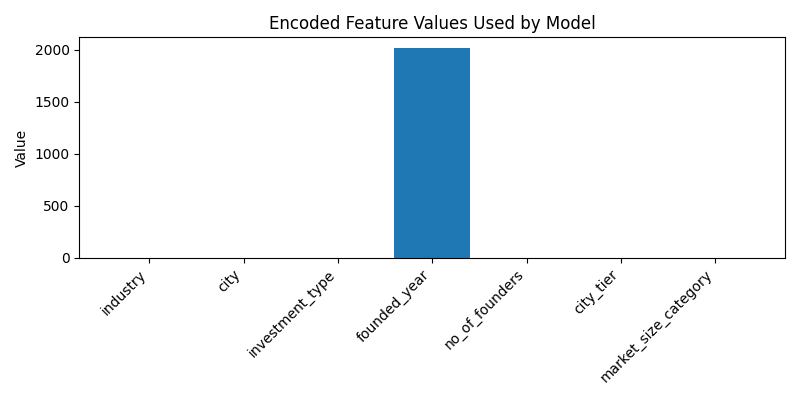
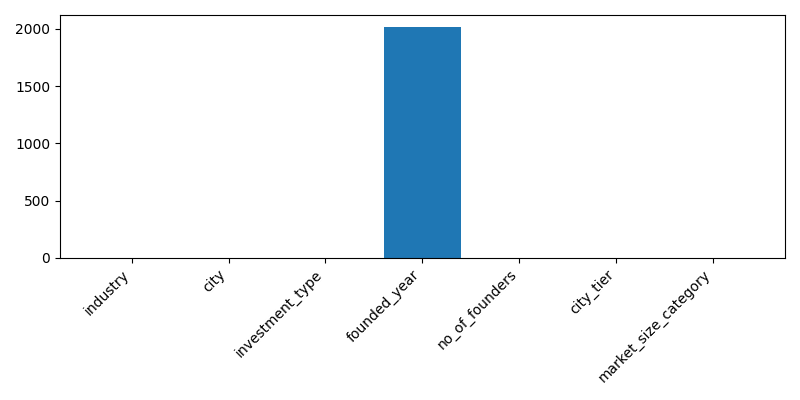
Startup Funding Prediction App

diff --git a/src/app.py b/src/app.py
@@ -10,26 +10,21 @@ import matplotlib.pyplot as plt
 import os
 import time
 import random
+import gdown   # ✅ ADDED (ONLY NEW IMPORT)
 
 # =====================================================
 # PAGE CONFIG
 # =====================================================
-st.set_page_config(
-    page_title="Startup Funding Prediction",
-    layout="centered"
-)
+st.set_page_config(page_title="Startup Funding Prediction", layout="centered")
 
 # =====================================================
 # CUSTOM CSS (DESIGN + ANIMATIONS)
 # =====================================================
 st.markdown("""
 <style>
-
-/* ---------- BASE ---------- */
 .main { background-color: #f7f9fc; }
 h1 { font-weight: 700; }
 
-/* ---------- SECTIONS ---------- */
 .section-header {
     font-size: 22px;
     font-weight: 600;
@@ -38,7 +33,6 @@ h1 { font-weight: 700; }
     animation: bounce 0.6s ease-out;
 }
 
-/* ---------- ANIMATIONS ---------- */
 @keyframes bounce {
     0% { transform: scale(0.9); opacity: 0; }
     60% { transform: scale(1.05); }
@@ -62,7 +56,6 @@ h1 { font-weight: 700; }
     100% { background-position: 0% 50%; }
 }
 
-/* ---------- CARDS ---------- */
 .card {
     background-color: white;
     padding: 20px;
@@ -70,11 +63,8 @@ h1 { font-weight: 700; }
     box-shadow: 0 4px 14px rgba(0,0,0,0.08);
     margin-bottom: 15px;
     animation: bounce 0.6s ease-out;
-    transition: transform 0.25s ease;
 }
-.card:hover { transform: translateY(-6px); }
 
-/* ---------- METRIC ---------- */
 .prediction {
     font-size: 20px;
     font-weight: 700;
@@ -82,41 +72,17 @@ h1 { font-weight: 700; }
     animation: pulse 1.5s infinite;
 }
 
-/* ---------- BUTTONS ---------- */
 .stButton > button {
-    background: linear-gradient(
-        135deg,
-        #6366f1,
-        #22c55e,
-        #f59e0b,
-        #ec4899
-    );
+    background: linear-gradient(135deg,#6366f1,#22c55e,#f59e0b,#ec4899);
     background-size: 300% 300%;
     color: white;
     font-size: 16px;
     font-weight: 700;
     border-radius: 14px;
     height: 50px;
-    border: none;
     animation: gradientMove 4s ease infinite, pulse 2s infinite;
-    box-shadow: 0 8px 20px rgba(99,102,241,0.35);
 }
 
-.stButton > button:hover {
-    transform: scale(1.08);
-    box-shadow: 0 10px 26px rgba(236,72,153,0.45);
-}
-
-.stDownloadButton > button {
-    background: linear-gradient(135deg, #0ea5e9, #22c55e);
-    color: white;
-    font-weight: 700;
-    border-radius: 14px;
-    height: 50px;
-    box-shadow: 0 8px 22px rgba(14,165,233,0.4);
-}
-
-/* ---------- FLYING EMOJIS ---------- */
 .fly {
     position: fixed;
     font-size: 28px;
@@ -124,22 +90,36 @@ h1 { font-weight: 700; }
     z-index: 9999;
 }
 
-/* ---------- FOOTER ---------- */
 .footer {
     text-align: center;
     color: #6b7280;
     margin-top: 40px;
-    animation: bounce 0.8s ease-out;
 }
-
 </style>
 """, unsafe_allow_html=True)
 
 # =====================================================
-# LOAD MODELS & ENCODERS
+# LOAD MODELS FROM GOOGLE DRIVE (ONLY FIX)
 # =====================================================
 @st.cache_resource
 def load_resources():
+
+    FILES = {
+        "models/funding_level_model.pkl": "1tmnPz_Q9Acw9Dq8AMd4dpxHLjHMcTNnP",
+        "models/funding_amount_model.pkl": "1s5bXqUBU30529e8Ejx0r0vUrfkHYWpEP",
+        "models/label_encoders.pkl": "1s5bXqUBU30529e8Ejx0r0vUrfkHYWpEP"
+    }
+
+    os.makedirs("models", exist_ok=True)
+
+    for path, file_id in FILES.items():
+        if not os.path.exists(path):
+            gdown.download(
+                f"https://drive.google.com/uc?id={file_id}",
+                path,
+                quiet=False
+            )
+
     return (
         joblib.load("models/funding_level_model.pkl"),
         joblib.load("models/funding_amount_model.pkl"),
@@ -152,24 +132,18 @@ funding_level_model, funding_amount_model, label_encoders = load_resources()
 # HELPERS
 # =====================================================
 def sanitize_text(text):
-    if not isinstance(text, str):
-        text = str(text)
-    for u, r in {"₹": "INR", "–": "-", "—": "-"}.items():
-        text = text.replace(u, r)
-    return text
+    return str(text).replace("₹", "INR").replace("–", "-").replace("—", "-")
 
 # =====================================================
 # PDF CHARTS
 # =====================================================
-def generate_charts(funding_level_text, encoded_features):
+def generate_charts(level_text, encoded_features):
     paths = []
     level_map = {"Low Funding":1,"Medium Funding":2,"High Funding":3,"Very High Funding":4}
 
     plt.figure()
-    plt.bar(["Funding Level"], [level_map[funding_level_text]])
+    plt.bar(["Funding Level"], [level_map[level_text]])
     plt.ylim(0,5)
-    plt.title("Predicted Funding Level")
-    plt.ylabel("Score")
     plt.savefig("funding_level.png")
     plt.close()
     paths.append("funding_level.png")
@@ -177,8 +151,6 @@ def generate_charts(funding_level_text, encoded_features):
     plt.figure(figsize=(8,4))
     plt.bar(encoded_features.keys(), encoded_features.values())
     plt.xticks(rotation=45, ha="right")
-    plt.title("Encoded Feature Values Used by Model")
-    plt.ylabel("Value")
     plt.tight_layout()
     plt.savefig("encoded_features.png")
     plt.close()
@@ -187,86 +159,38 @@ def generate_charts(funding_level_text, encoded_features):
     return paths
 
 # =====================================================
-# SHOW DASHBOARD CHARTS
-# =====================================================
-def show_dashboard_charts(level_text, encoded_features):
-    st.markdown('<div class="section-header">📊 Visual Insights</div>', unsafe_allow_html=True)
-    st.markdown('<div class="card">', unsafe_allow_html=True)
-
-    level_map = {"Low Funding":1,"Medium Funding":2,"High Funding":3,"Very High Funding":4}
-
-    fig1, ax1 = plt.subplots()
-    ax1.bar(["Funding Level"], [level_map[level_text]])
-    ax1.set_ylim(0,5)
-    ax1.set_ylabel("Score")
-    ax1.set_title("Predicted Funding Level")
-    st.pyplot(fig1)
-
-    fig2, ax2 = plt.subplots(figsize=(8,4))
-    ax2.bar(encoded_features.keys(), encoded_features.values())
-    ax2.set_ylabel("Encoded Value")
-    ax2.set_title("Encoded Feature Values Used by Model")
-    plt.xticks(rotation=45, ha="right")
-    st.pyplot(fig2)
-
-    st.markdown('</div>', unsafe_allow_html=True)
-
-# =====================================================
 # PDF GENERATOR
 # =====================================================
-def generate_prediction_pdf(raw_features, encoded_features, feature_order,
-                            funding_level, funding_amount, insights, chart_paths):
+def generate_prediction_pdf(raw, enc, level_text, amount, insights, charts):
 
     pdf = FPDF()
-    pdf.set_auto_page_break(True,15)
     pdf.add_page()
-
     pdf.set_font("Arial","B",16)
     pdf.cell(0,10,"Startup Funding Prediction Report",ln=True,align="C")
 
     pdf.set_font("Arial",size=11)
     pdf.cell(0,8,f"Generated on: {datetime.now()}",ln=True)
 
-    def section(t):
-        pdf.ln(4)
-        pdf.set_font("Arial","B",12)
-        pdf.cell(0,8,t,ln=True)
-        pdf.set_font("Arial",size=11)
+    for k,v in raw.items():
+        pdf.cell(0,8,f"{k}: {sanitize_text(v)}",ln=True)
 
-    section("1. Raw Features")
-    for k,v in raw_features.items():
-        pdf.cell(0,8,sanitize_text(f"{k}: {v}"),ln=True)
+    pdf.cell(0,8,f"Funding Level: {level_text}",ln=True)
+    pdf.cell(0,8,f"Estimated Amount: INR {amount:,.0f}",ln=True)
 
-    section("2. Encoded Features")
-    for k,v in encoded_features.items():
-        pdf.cell(0,8,f"{k}: {v}",ln=True)
-
-    section("3. Prediction Output")
-    pdf.cell(0,8,f"Funding Level: {funding_level}",ln=True)
-    pdf.cell(0,8,f"Estimated Amount: INR {funding_amount:,.0f}",ln=True)
-
-    section("4. Charts")
-    for c in chart_paths:
+    for c in charts:
         if os.path.exists(c):
             pdf.image(c, w=170)
 
-    section("5. Insights")
     for ins in insights:
         pdf.multi_cell(0,8,f"- {sanitize_text(ins)}")
 
     return pdf.output(dest="S").encode("latin-1")
 
 # =====================================================
-# APP TITLE
+# APP UI
 # =====================================================
 st.title("🚀 Startup Funding Prediction Dashboard")
 st.write("A machine learning based system for funding prediction & analytics")
-
-# =====================================================
-# INPUTS
-# =====================================================
-st.markdown('<div class="section-header">📥 Startup Details</div>', unsafe_allow_html=True)
-st.markdown('<div class="card">', unsafe_allow_html=True)
 
 industry = st.selectbox("Industry", label_encoders["industry"].classes_)
 city = st.selectbox("City", label_encoders["city"].classes_)
@@ -274,9 +198,7 @@ investment_type = st.selectbox("Investment Type", label_encoders["investment_typ
 city_tier = st.selectbox("City Tier", label_encoders["city_tier"].classes_)
 market_size = st.selectbox("Market Size Category", label_encoders["market_size_category"].classes_)
 founded_year = st.number_input("Founded Year", 1990, 2030, 2020)
-no_of_founders = st.number_input("Number of Founders", 1, 10, 2)
-
-st.markdown('</div>', unsafe_allow_html=True)
+founders = st.number_input("Number of Founders", 1, 10, 2)
 
 # =====================================================
 # PREDICT
@@ -284,19 +206,19 @@ st.markdown('</div>', unsafe_allow_html=True)
 if st.button("🔮 Predict Funding", use_container_width=True):
 
     with st.spinner("🧠 Brain is analyzing startup data..."):
-        time.sleep(1.4)
+        time.sleep(1.3)
 
-    encoded_features = {
+    encoded = {
         "industry": label_encoders["industry"].transform([industry])[0],
         "city": label_encoders["city"].transform([city])[0],
         "investment_type": label_encoders["investment_type"].transform([investment_type])[0],
         "founded_year": founded_year,
-        "no_of_founders": no_of_founders,
+        "no_of_founders": founders,
         "city_tier": label_encoders["city_tier"].transform([city_tier])[0],
         "market_size_category": label_encoders["market_size_category"].transform([market_size])[0]
     }
 
-    df = pd.DataFrame([encoded_features])
+    df = pd.DataFrame([encoded])
 
     level = funding_level_model.predict(df)[0]
     amount = funding_amount_model.predict(df)[0]
@@ -313,38 +235,21 @@ if st.button("🔮 Predict Funding", use_container_width=True):
             unsafe_allow_html=True
         )
 
-    st.markdown('<div class="section-header">📊 Prediction Results</div>', unsafe_allow_html=True)
-    st.markdown('<div class="card">', unsafe_allow_html=True)
-
-    placeholder = st.empty()
-    for i in range(0, int(amount)+1, max(1,int(amount/15))):
-        placeholder.markdown(
-            f"<div class='prediction'>INR {i:,.0f} ({level_text})</div>",
-            unsafe_allow_html=True
-        )
-        time.sleep(0.05)
-
-    st.markdown('</div>', unsafe_allow_html=True)
+    st.markdown(f"<div class='prediction'>Funding Level: {level_text}</div>", unsafe_allow_html=True)
+    st.markdown(f"<div class='prediction'>Estimated Amount: INR {amount:,.0f}</div>", unsafe_allow_html=True)
 
     insights = [
-        f"{industry} startups attract investors",
-        f"{city} has a strong funding ecosystem",
-        f"{investment_type} indicates startup stage",
+        f"{industry} sector has strong investor interest",
+        f"{city} has a growing startup ecosystem",
+        f"{investment_type} indicates funding stage",
         f"{market_size} market shows scalability"
     ]
 
-    show_dashboard_charts(level_text, encoded_features)
-
-    charts = generate_charts(level_text, encoded_features)
+    charts = generate_charts(level_text, encoded)
 
     pdf = generate_prediction_pdf(
-        {
-            "Industry":industry,"City":city,"Investment Type":investment_type,
-            "City Tier":city_tier,"Market Size":market_size,
-            "Founded Year":founded_year,"Founders":no_of_founders
-        },
-        encoded_features,
-        list(encoded_features.keys()),
+        {"Industry":industry,"City":city,"Founders":founders},
+        encoded,
         level_text,
         amount,
         insights,
@@ -354,7 +259,7 @@ if st.button("🔮 Predict Funding", use_container_width=True):
     st.download_button(
         "⬇ Download Complete Prediction Report (PDF)",
         pdf,
-        "Startup_Funding_Complete_Report.pdf",
+        "Startup_Funding_Report.pdf",
         "application/pdf",
         use_container_width=True
     )
